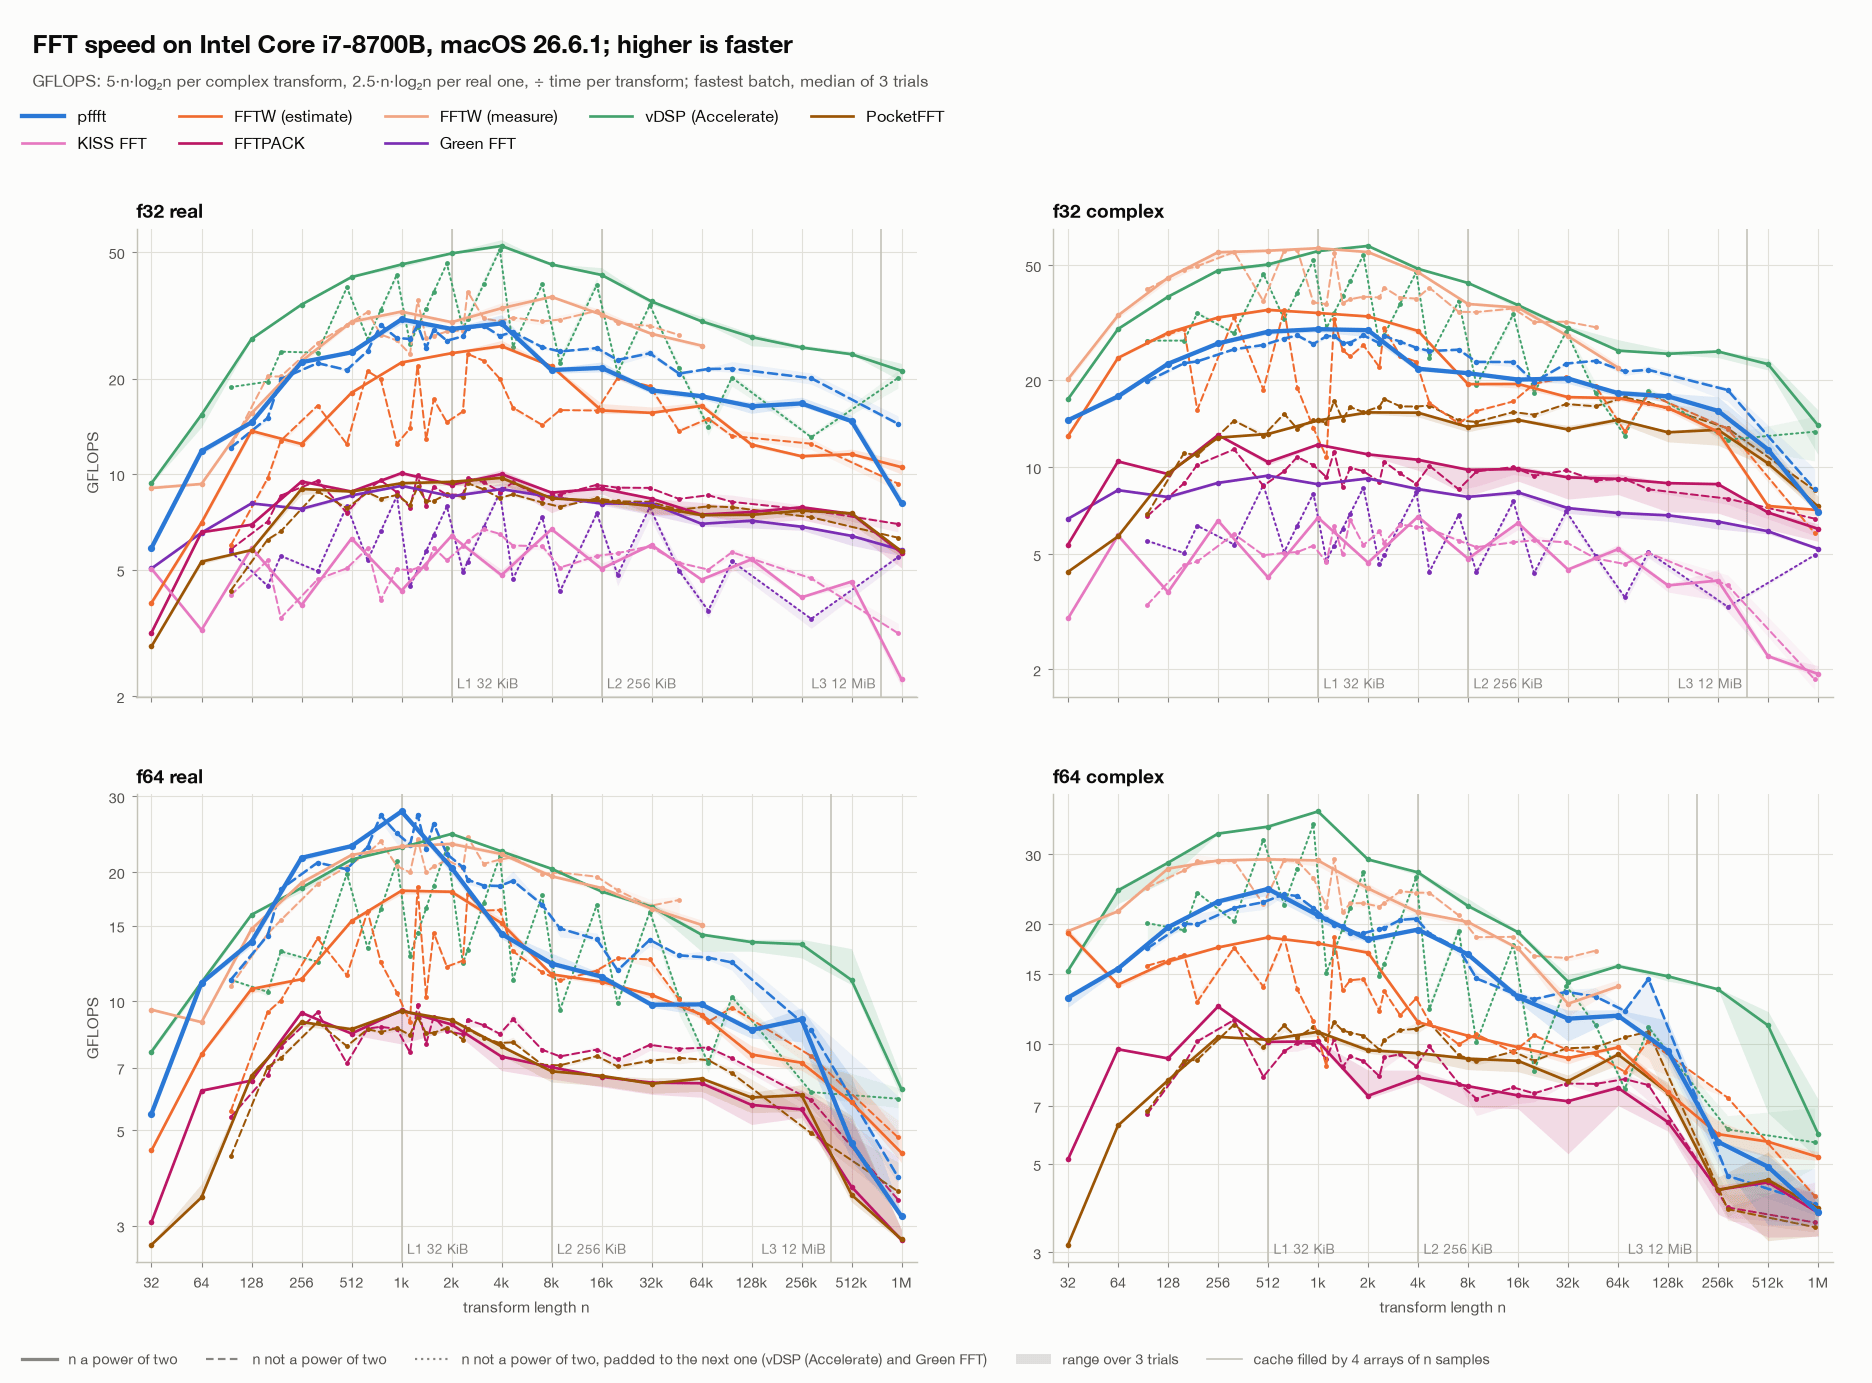
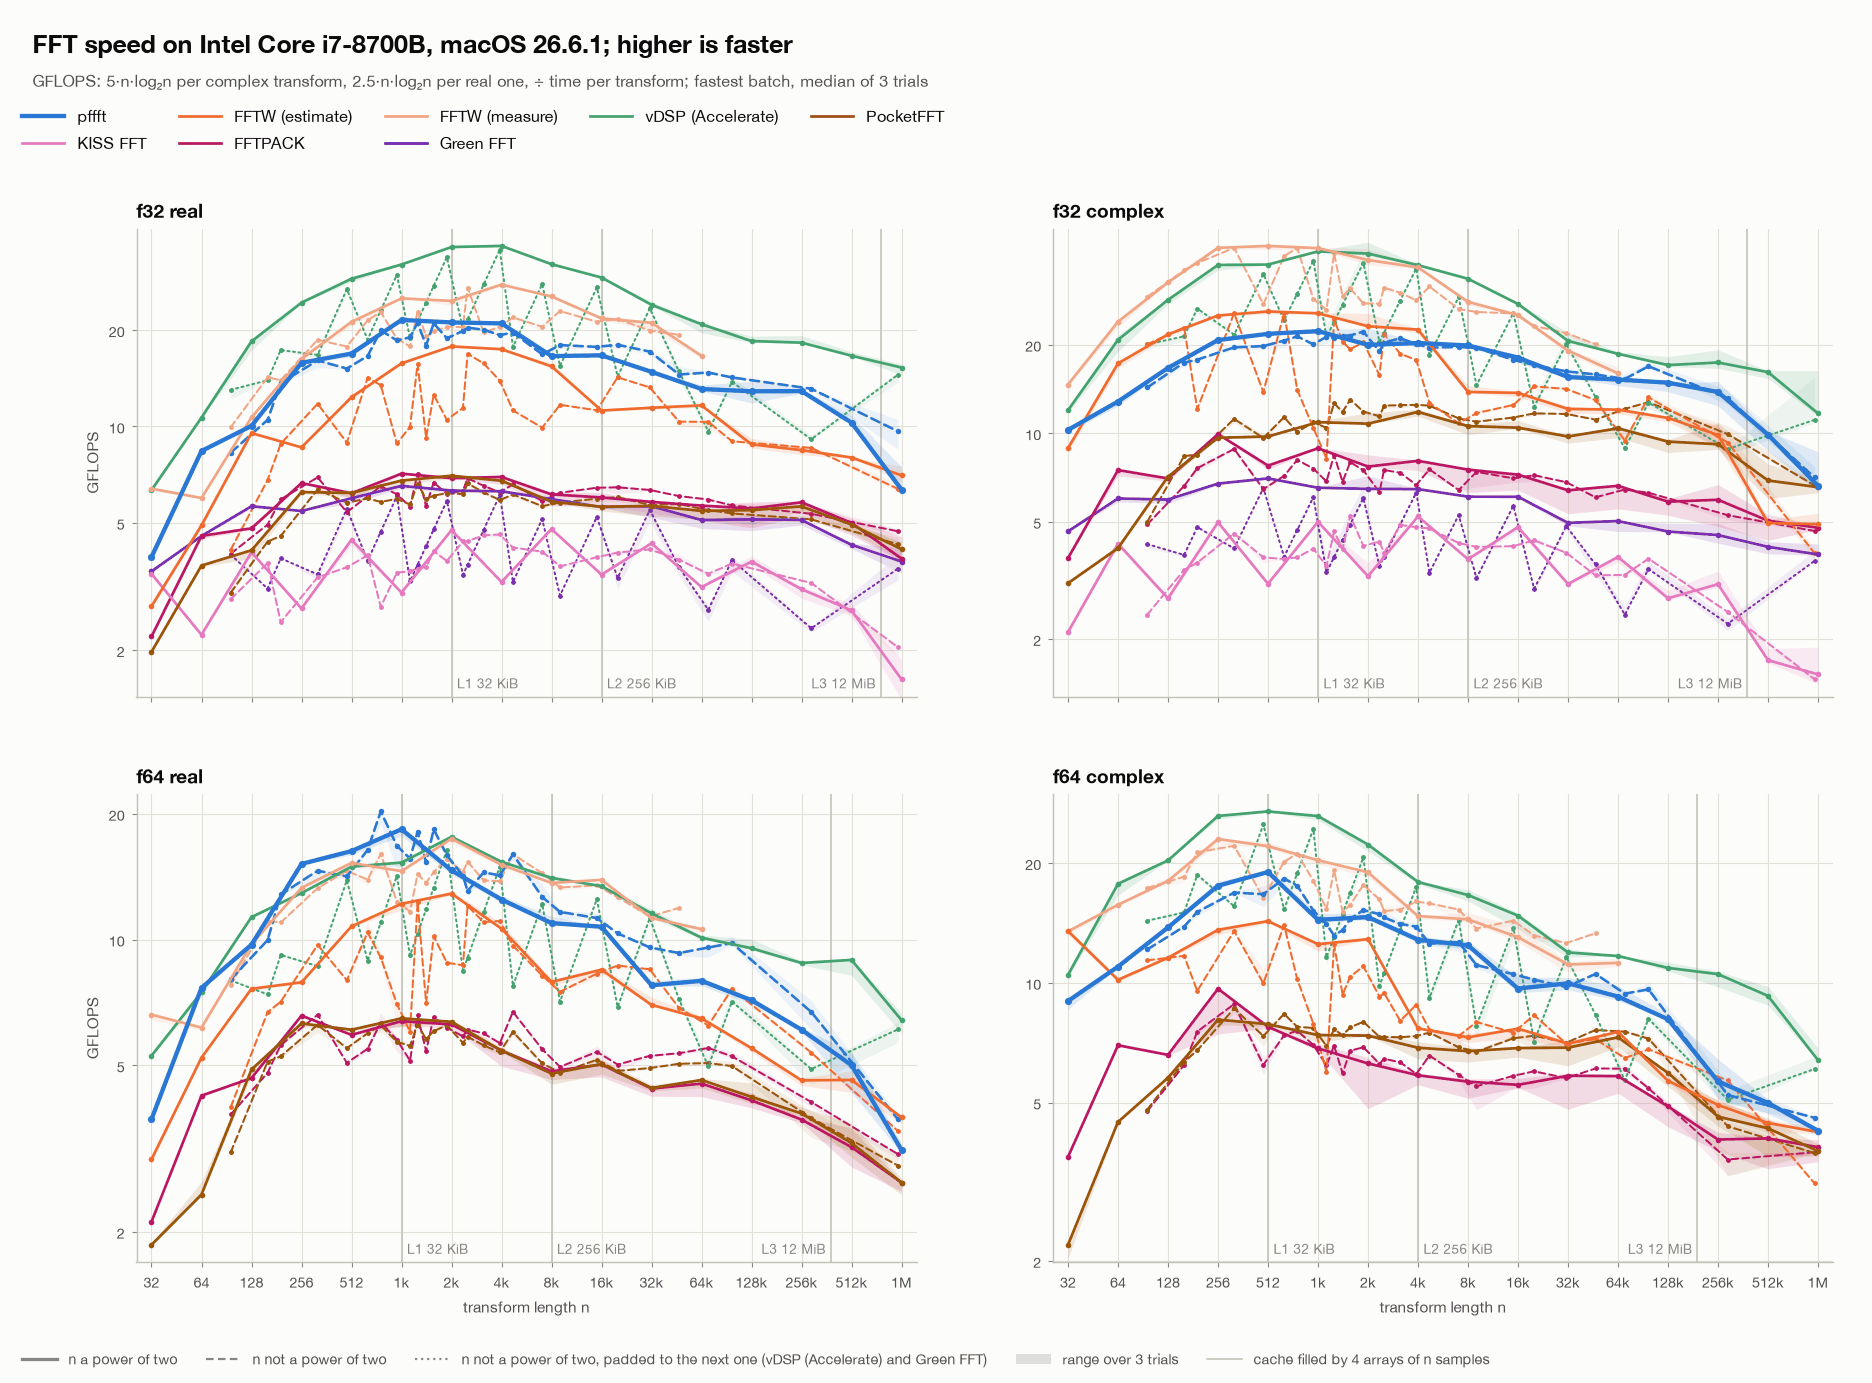
docs: x86 benchmarks with the output prefetching
docs/benchmarks.md: the four x86 machines (Xeon 6975P-C, Xeon Platinum
8573C, EPYC 9V45, Core i7-8700B) measured again with 1b88190, with their
charts and rows of the summary table, and the comparison with pffft 1.1.0 on
x86 with its chart. The arm64 machines are unchanged: there the prefetching
is compiled out, and the M2, the iPhone 11 Pro, the MediaTek phone, the
Neoverse N2 and the Cobalt 100 measured within the noise against master.

Against 1.1.0 (below n = 4096 / from 4096 up):
- Xeon 6975P-C: 14.0% / 14.5% faster (before 13.8% / 5.4%, and real lengths
  down to -5.0%); no length slower by more than 0.1%
- Core i7-8700B: 13.2% / 13.0% (before 12.8% / 3.8%); f32 real n = 32 1.1%
  slower
- EPYC 7763 with MSVC, which can't tell AMD from Intel and so prefetches by
  default: 6.5% faster / 0.5% slower; with PFFFT_PREFETCH_DIST=0, 8.6% /
  4.8% faster. The docs say so.

pffft beat the portable libraries in 1555 of 1584 cases (counted per case).
The ranges against FFTW and vDSP are updated, and the README quotes the new
x86 numbers of the comparison with Pommier's pffft.

diff --git a/docs/benchmarks.md b/docs/benchmarks.md
@@ -1,9 +1,11 @@
 # pffft benchmark results
 
 Measured with [bench_fft](../benchmarks/README.md) in November 2026: pffft
-(commit 5ffaad7) against the FFT libraries it is usually compared with, on
-nine machines, and against pffft 1.1.0, which is as fast as Julien
-Pommier's original, on six. Every chart has a panel per precision (f32, f64)
+against the FFT libraries it is usually compared with, on nine machines, and
+against pffft 1.1.0, which is as fast as Julien Pommier's original, on six.
+pffft is commit 1b88190 on the x86 machines and commit 5ffaad7 on the arm64
+ones, where the two compile to the same code: 1b88190 adds prefetching of
+the output of the FFT passes on x86 (pull request #129). Every chart has a panel per precision (f32, f64)
 and transform kind (real, complex) and covers 44 lengths from 32 to 2^20:
 the powers of two and 28 other lengths with factors 3 and 5.
 
@@ -21,21 +23,21 @@ is not available there.
 | MediaTek MT6878, Android | 1.12 | 1.41 | - | 2.01 | 4.32 | 2.24 | 2.08 |
 | Arm Neoverse N2, Linux | 1.22 | 1.65 | - | 1.87 | 4.71 | 2.71 | 4.37 |
 | Microsoft Cobalt 100 (Neoverse N2), Windows | - | - | - | 2.34 | 4.06 | 2.50 | - |
-| Intel Xeon 6975P-C, Linux | 0.57 | 0.87 | - | 1.55 | 5.75 | 2.18 | 3.45 |
-| Intel Xeon Platinum 8573C, Windows | 0.62 | 1.22 | - | 2.54 | 4.12 | 2.65 | - |
-| AMD EPYC 9V45, Linux | 0.68 | 1.34 | - | 1.54 | 6.73 | 2.83 | 4.90 |
-| Intel Core i7-8700B, macOS (VM) | 0.78 | 1.30 | 0.63 | 2.03 | 4.38 | 2.20 | 2.43 |
+| Intel Xeon 6975P-C, Linux | 0.59 | 0.89 | - | 1.61 | 5.85 | 2.26 | 3.57 |
+| Intel Xeon Platinum 8573C, Windows | 0.62 | 1.26 | - | 2.63 | 4.13 | 2.74 | - |
+| AMD EPYC 9V45, Linux | 0.68 | 1.33 | - | 1.54 | 6.69 | 2.81 | 4.82 |
+| Intel Core i7-8700B, macOS (VM) | 0.81 | 1.36 | 0.68 | 2.09 | 4.52 | 2.29 | 2.62 |
 
 KISS FFT and Green FFT are measured in single precision only.
 
 - **Portable libraries.** pffft was faster than PocketFFT, KISS FFT, FFTPACK
-  and Green FFT in 1554 of the 1584 cases. 21 of the 30 exceptions are on
+  and Green FFT in 1555 of the 1584 cases. 21 of the 29 exceptions are on
   the AMD EPYC 9V45, all against PocketFFT and all complex: 18 single
   precision lengths that are not powers of two, from 960 to 1000000, where
-  pffft was up to 14.4% slower, and 3 double precision ones, up to 3.3%. The
-  other 9 are complex transforms out of cache, at n of 65536 and more (5 on
-  the Xeon 6975P-C, 2 on the Core i7-8700B, 1 each on the M2 and the
-  iPhone), where pffft was at most 7.6% slower.
+  pffft was up to 16.3% slower, and 3 double precision ones, up to 4.2%. The
+  other 8 are complex transforms out of cache, at n of 65536 and more (6 on
+  the Xeon 6975P-C, 2 of them slower than both PocketFFT and FFTPACK, and 1
+  each on the M2 and the iPhone), where pffft was at most 7.8% slower.
 - **FFTW** plans a transform in one of several modes; two are measured here.
   `FFTW_ESTIMATE` plans at once, as pffft and the other libraries do.
   `FFTW_MEASURE` times candidate algorithms on the machine and keeps the
@@ -43,16 +45,16 @@ KISS FFT and Green FFT are measured in single precision only.
   that planning time out, so the comparison favours `FFTW_MEASURE`: in an
   application its cost pays off only over many transforms of one length.
   - *Real transforms.* pffft was faster than `FFTW_ESTIMATE` on every
-    machine (geometric means from 1.02 on the Xeon 6975P-C to 1.74 on the
+    machine (geometric means from 1.07 on the Xeon 6975P-C to 1.74 on the
     Neoverse N2). On arm64 it was also faster than `FFTW_MEASURE` on the
     iPhone, the MediaTek phone and the Neoverse N2 (1.10, 1.27 and 1.39)
     and level with it on the M2 (1.00).
   - *Complex transforms.* pffft was faster than `FFTW_ESTIMATE` everywhere
-    but on the Xeon 6975P-C (1.07 to 1.56; 0.73 there). `FFTW_MEASURE` was
+    but on the Xeon 6975P-C (1.07 to 1.56; 0.74 there). `FFTW_MEASURE` was
     faster on Apple's chips (pffft 0.77 and 0.83), level with pffft on the
     MediaTek phone (1.00) and slower on the Neoverse N2 (1.06).
-  - *x86.* `FFTW_MEASURE` was faster on the x86 machines (pffft 0.57 to
-    0.78 over all cases): FFTW has AVX2 and AVX-512 code, while pffft's
+  - *x86.* `FFTW_MEASURE` was faster on the x86 machines (pffft 0.59 to
+    0.81 over all cases): FFTW has AVX2 and AVX-512 code, while pffft's
     single precision uses 4-wide SSE there (its double precision uses AVX).
 - **vDSP**, Apple's FFT, was faster in single precision. On Apple's chips it
   hands single-precision FFTs from n = 256 or 512 to the AMX matrix unit, a
@@ -63,7 +65,7 @@ KISS FFT and Green FFT are measured in single precision only.
   [How it was measured](#how-it-was-measured)). In double precision, where
   vDSP did not lower the clock, pffft was faster on Apple's chips
   (geometric means 1.03 to 1.32 per kind) and slower on the Intel Mac
-  (0.73 real, 0.65 complex).
+  (0.80 real, 0.68 complex).
 
 ## Performance improvements since Pommier's pffft
 
@@ -77,8 +79,8 @@ NEON double precision with native intrinsics instead of an emulation, faster
 NEON transposes, fast paths in the radix-3 and radix-4 real butterflies,
 code layout that keeps the radix-3 and radix-5 real kernels out of line, a
 radix-8 last pass for the complex lengths whose n/4 has an odd power of two,
-and complex butterflies that get the direction of the transform as a
-constant.
+complex butterflies that get the direction of the transform as a
+constant, and, on x86, prefetching of the output of the passes out of L1.
 
 Both versions run in one process and take turns, batch by batch
 (benchmarks/compare.py). Averaged over the lengths, the current pffft was 16
@@ -89,22 +91,32 @@ to 16384) it was faster at every length, by 2% at least; out of cache the
 gain shrinks, and on the MediaTek phone a few real lengths from 2^16 up are
 within the noise (1.2% slower at most).
 
-![pffft 5ffaad7 vs 1.1.0 on Intel Xeon 6975P-C, Intel Core i7-8700B and AMD EPYC 7763](benchmarks/pffft-vs-1.1.0-x86.png)
+![pffft 1b88190 vs 1.1.0 on Intel Xeon 6975P-C, Intel Core i7-8700B and AMD EPYC 7763](benchmarks/pffft-vs-1.1.0-x86.png)
 
-On x86 the gain is smaller, as much of the work above was for NEON; what
-applies there is FMA (where the build targets AVX2 or newer), the radix-3
-and radix-4 fast paths, the code layout, the radix-8 pass and the constant
-direction. Below n = 4096, pffft was 13.8% faster on the Xeon 6975P-C
-(Linux, gcc), 12.8% on the Core i7-8700B (macOS, Clang) and 7.9% on the EPYC
-7763 (Windows, MSVC); from 4096 up 5.4%, 3.8% and 4.9%. The largest gains
-are at complex n = 32: in single precision 33% on the Xeon, 44% on the Core
-i7 and 25% on the EPYC. No complex length was slower (in a second run on the
-Xeon, one by 0.2%, within the noise). Some real lengths were slower: on the
-Xeon and the Core i7 several from n = 4000 up, by 2.3% at most in cache and
-5.0% out of cache; on the EPYC f32 n = 96 by 7.2% and f64 n = 32 by 4.2%.
-The averages of two runs of this comparison on the Xeon 6975P-C, on
-different hosts, differed by less than 0.1%, single lengths by 0.25% on
-average.
+On x86 the work above for NEON doesn't apply; what does is FMA (where the
+build targets AVX2 or newer), the radix-3 and radix-4 fast paths, the code
+layout, the radix-8 pass, the constant direction and the output
+prefetching. On the Intel machines pffft was faster than 1.1.0 at every
+length but one (apart from a few complex lengths out of cache on the Xeon,
+slower by 0.1% at most, within the noise): below n = 4096 by 14.0% on the Xeon 6975P-C (Linux, gcc)
+and 13.2% on the Core i7-8700B (macOS, Clang), from 4096 up by 14.5% and
+13.0%. The largest gains are at complex n = 32 (in single precision 32% on
+the Xeon and 43% on the Core i7), and out of L1 (single-precision complex
+n = 32768 34% and double-precision real n = 15360 31% on the Xeon,
+double-precision real n = 8192 27% on the Core i7). The exception is single
+precision real n = 32 on the Core i7, 1.1% slower. Two runs of this
+comparison on the Xeon 6975P-C, on different hosts, differed by less than
+0.2% on average.
+
+The AMD EPYC 7763 (Windows, MSVC) is the case the README warns about: MSVC
+cannot tell AMD from Intel, so the default build prefetches there too, and
+Zen does not gain from it. pffft was 6.5% faster than 1.1.0 below n = 4096
+but 0.5% slower from 4096 up, up to 12.0% at single lengths (complex
+n = 64; real lengths out of L1 lost up to 7%). Built with
+`PFFFT_PREFETCH_DIST=0`, as the README recommends for AMD CPUs, pffft was
+8.6% and 4.8% faster than 1.1.0 there, as fast as without the prefetching
+code (measured in another run, which also had the default build 6.4% faster
+and 0.1% slower).
 
 ## Machines
 
@@ -189,12 +201,14 @@ This runner exposes no cycle counter, so the chart is in measured time.
   where the CPU has it), except on Windows, where its CMake build has AVX2
   at most and no NEON (hence no FFTW on the Cobalt 100). vDSP is the
   system's Accelerate.
-- **Versions.** pffft is commit 5ffaad7, measured as commits 677d4ae and
-  3de6600, which have the same code (the CSV headers name those); 1.1.0 is
-  commit c14802c. The phones and the M2 ran the benchmark locally; the other
-  machines are GitHub-hosted runners (shared virtual machines), measured by
+- **Versions.** On the arm64 machines pffft is commit 5ffaad7, measured as
+  commits 677d4ae and 3de6600, which have the same code (the CSV headers
+  name those); on the x86 machines it is commit 1b88190, measured as an
+  earlier commit with the same code. 1.1.0 is commit c14802c. The phones
+  and the M2 ran the benchmark locally; the other machines are
+  GitHub-hosted runners (shared virtual machines), measured by
   .github/workflows/bench.yml, the comparisons on x86 with its `compare`
-  input set to `c14802c 3de6600`. GitHub's ubuntu-26.04 label lands on Intel
+  input set to c14802c and the measured commit. GitHub's ubuntu-26.04 label lands on Intel
   and AMD CPUs, some without a cycle counter; its runs were repeated until
   one ran on the Xeon 6975P-C with one.
 

diff --git a/README.md b/README.md
@@ -466,7 +466,7 @@ servers, arm64 and x86, it beat PocketFFT, KISS FFT, FFTPACK and Green FFT
 at nearly every length. Only FFTW and Apple's vDSP are sometimes faster.
 Thanks to performance fixes, pffft is now on average 16 to 17% faster than
 Julien Pommier's original below n = 4096 on arm64, and 7.5 to 10.5% faster at
-larger n; on x86, 8 to 14% and 4 to 5.5%.
+larger n; on x86 with Intel CPUs, 13 to 14% and 13 to 14.5%.
 [docs/benchmarks.md](docs/benchmarks.md) has the details.
 
 `bench_fft` measures pffft against other FFT libraries (FFTPACK, FFTW,
